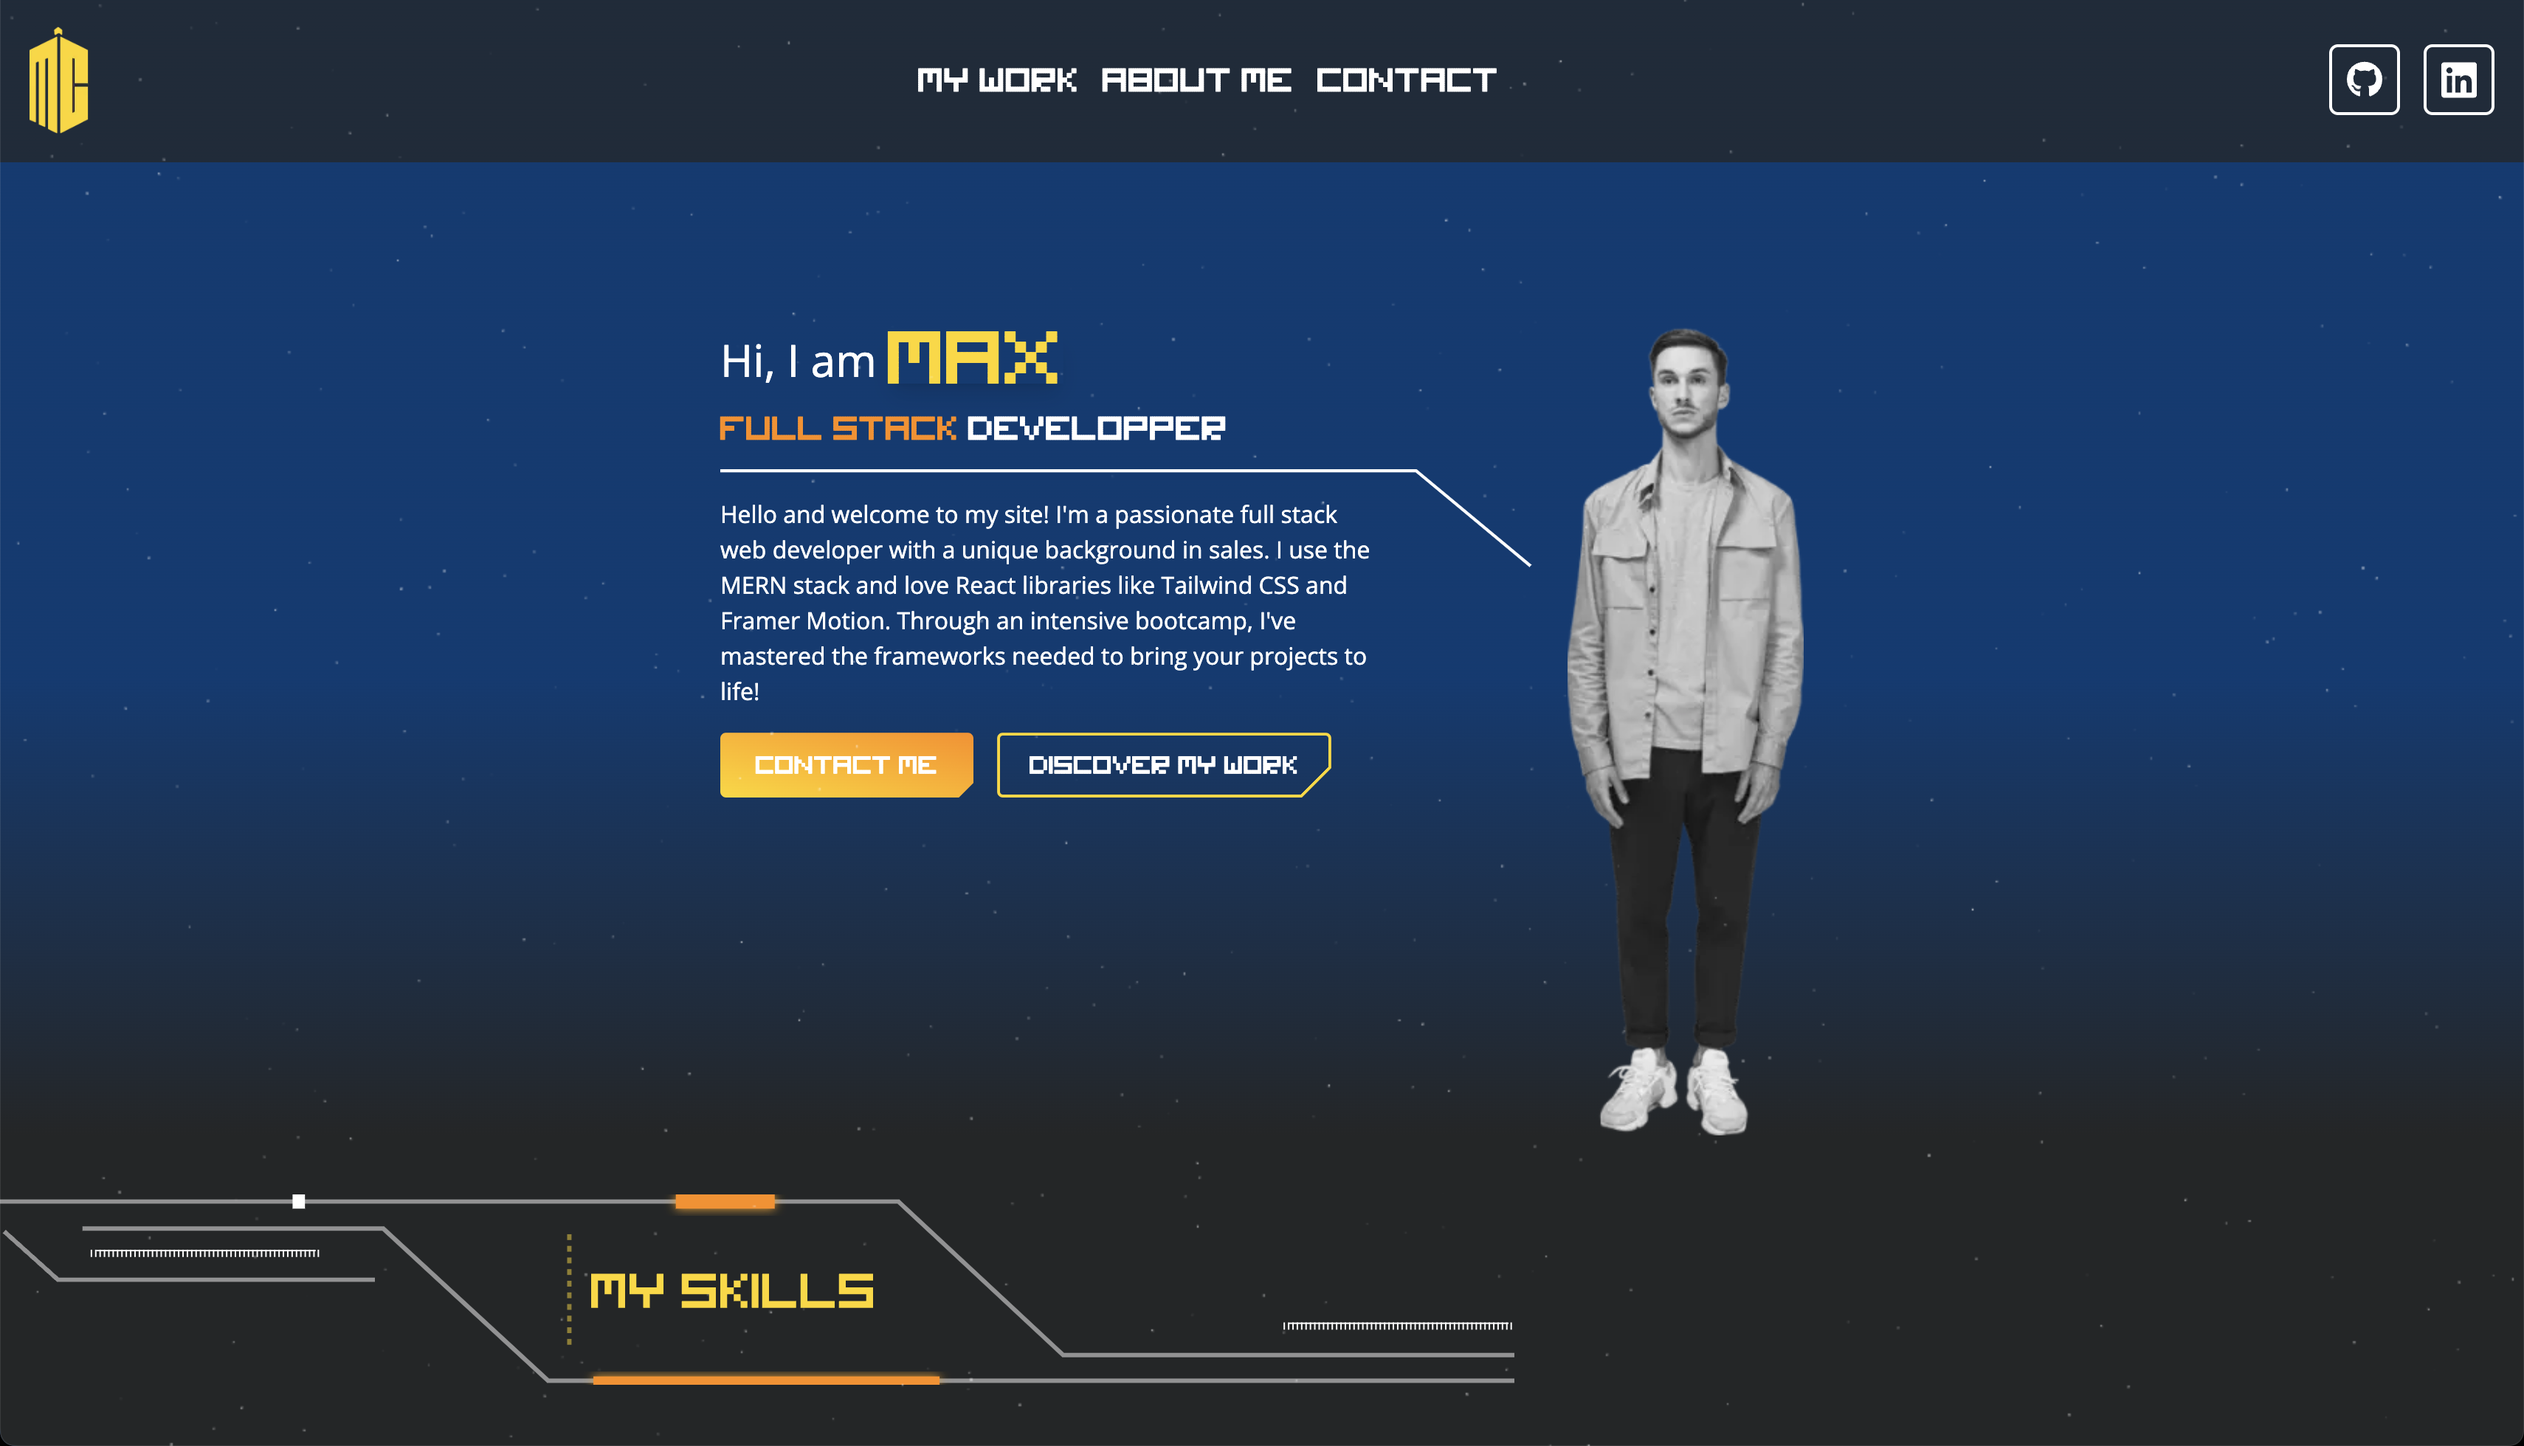
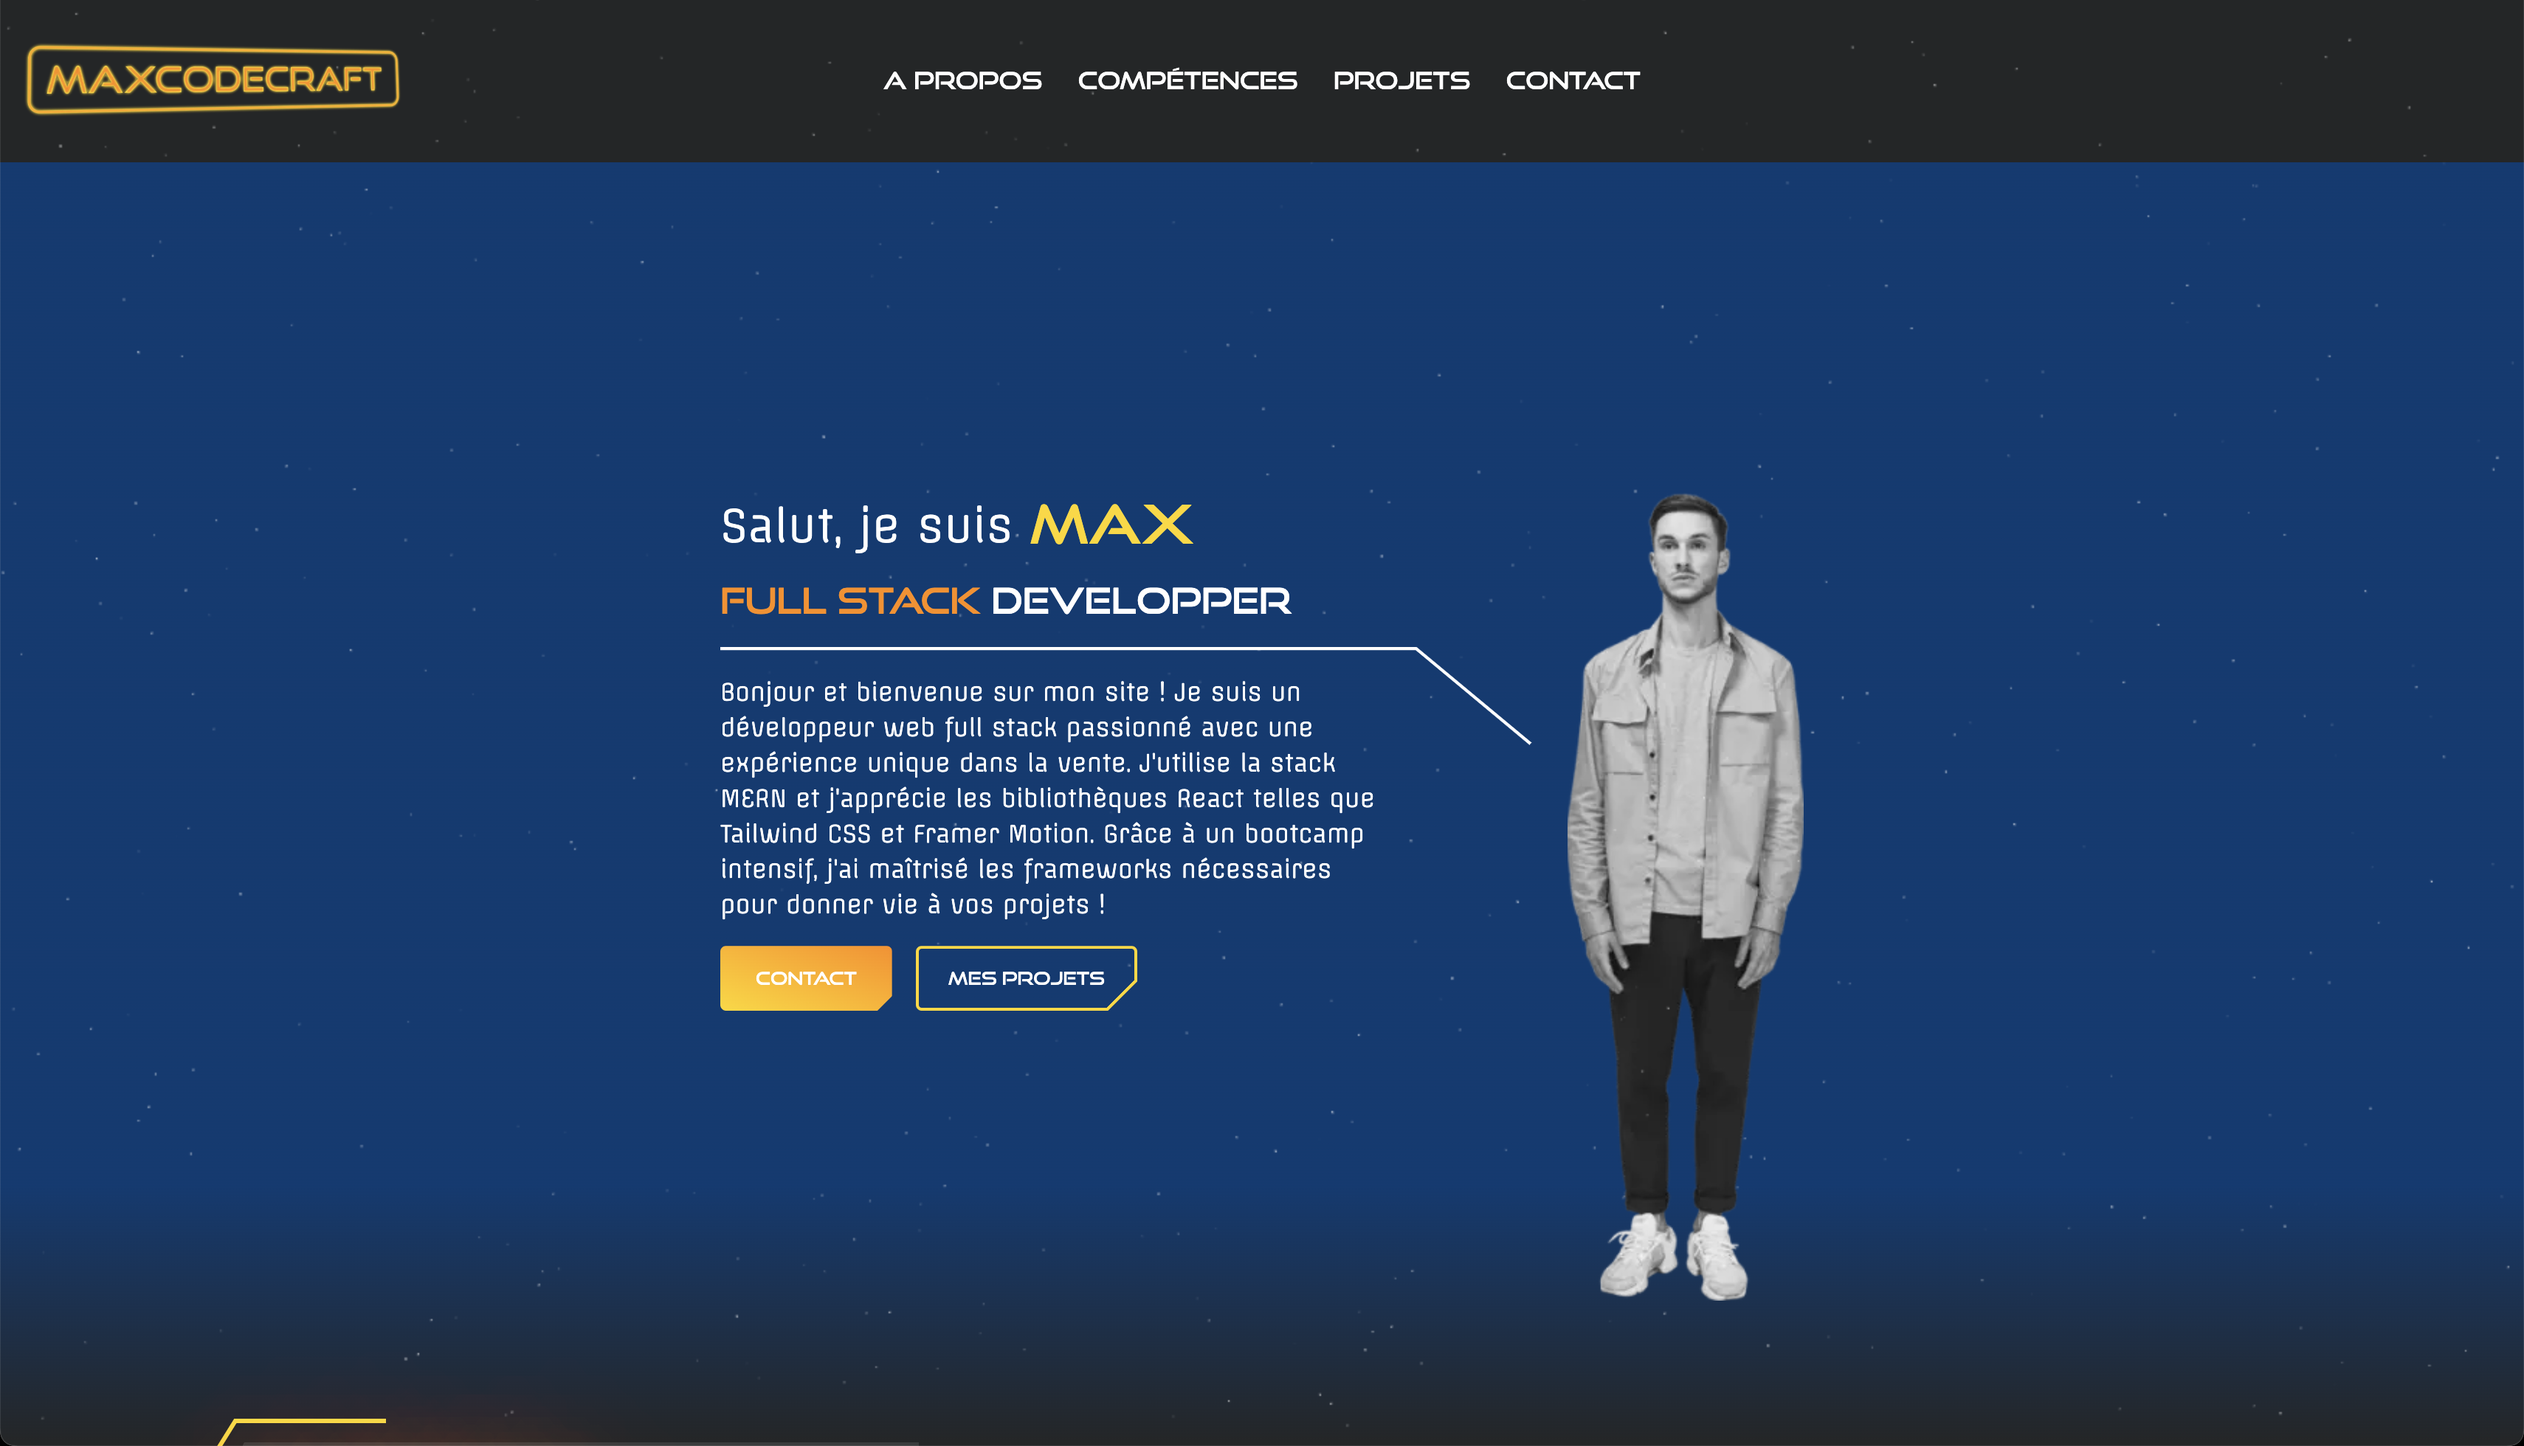
feat: add project and various UI modifications

diff --git a/components/sections/Contact.js b/components/sections/Contact.js
@@ -1,5 +1,6 @@
 "use client";
 import { useState } from "react";
+import { motion } from "framer-motion";
 import { FontAwesomeIcon } from "@fortawesome/react-fontawesome";
 import { faLinkedin, faGithub } from "@fortawesome/free-brands-svg-icons";
 import { faPaperPlane } from "@fortawesome/free-solid-svg-icons";
@@ -76,7 +77,7 @@ export default function Contact() {
         </div>
         <div className="text-white hover:text-gallifreyanGold">
           <a
-            href="https://www.linkedin.com/in/maxime-bocquet-8870a0261/"
+            href="https://www.linkedin.com/in/maxime-bocquet-dev/"
             target="blank"
             aria-label="link to my linkedin profile page"
             className="flex items-center gap-4"
@@ -102,7 +103,6 @@ export default function Contact() {
                 value={name}
                 placeholder="NOM"
                 onChange={(e) => setName(e.target.value)}
-                // onClick={() => setIsSelected("name")}
                 onFocus={() => setIsSelected("name")}
               />
             </div>
@@ -149,13 +149,19 @@ export default function Contact() {
             />
           </div>
           <div className="flex w-full justify-end">
-            <button
-              className="flex items-center justify-center gap-2 rounded bg-gradient-to-tr from-gallifreyanGold to-tardisOrange px-6 py-[14px] font-goodtimes text-xs text-white"
+            <motion.button
+              initial={{
+                background: "linear-gradient(to right, #ffd700, #ff8c00)",
+              }}
+              whileHover={{
+                background: "linear-gradient(to left, #ffd700, #ff8c00)",
+              }}
+              className="flex items-center justify-center gap-2 rounded px-6 py-[14px] font-goodtimes text-xs text-white"
               type="submit"
               onClick={() => setIsSelected("")}
             >
               ENVOYER <FontAwesomeIcon icon={faPaperPlane} size="xl" />
-            </button>
+            </motion.button>
           </div>
         </form>
 

diff --git a/components/cards/ProjectCard.js b/components/cards/ProjectCard.js
@@ -1,6 +1,7 @@
 "use client";
 import Image from "next/image";
 import SkillCard from "./SkillCard";
+import { motion } from "framer-motion";
 import technos from "@/data/technos";
 import { FontAwesomeIcon } from "@fortawesome/react-fontawesome";
 import { faPaperPlane } from "@fortawesome/free-solid-svg-icons";
@@ -66,9 +67,19 @@ export default function ProjectCard(props) {
           <div className="flex h-12 w-full gap-12">{technosToDisplay}</div>
           <div className="flex justify-end">
             <a href={props.url} target="_blank">
-              <button className="flex items-center justify-center gap-2 rounded bg-gradient-to-tr from-gallifreyanGold to-tardisOrange px-6 py-[14px] font-goodtimes text-xs text-white">
-                Je découvre <FontAwesomeIcon icon={faPaperPlane} size="xl" />
-              </button>
+              <motion.button
+                initial={{
+                  background: "linear-gradient(to right, #ffd700, #ff8c00)",
+                }}
+                whileHover={{
+                  background: "linear-gradient(to left, #ffd700, #ff8c00)",
+                }}
+                className="items-center justify-center rounded"
+              >
+                <p className="px-6 py-[14px] font-goodtimes text-xs text-white">
+                  Je découvre <FontAwesomeIcon icon={faPaperPlane} size="xl" />
+                </p>
+              </motion.button>
             </a>
           </div>
         </div>

diff --git a/data/projects.js b/data/projects.js
@@ -4,7 +4,7 @@ const projects = [
     image: "/projects/notaview.png",
     alt: "Notaview Website",
     url: "https://notaview-frontend.vercel.app/",
-    desc: "Site accompagnant les médecins en regroupant plus de 550 articles médicaux",
+    desc: "Application Web commerciale bientôt lancée permettant aux médecins de retrouver toute l’information médicale de manière condensée.",
     technos: [
       "React",
       "TypeScript",
@@ -15,6 +15,14 @@ const projects = [
       "DaisyUi",
       "Shadcn",
     ],
+  },
+  {
+    title: "Quizbrain",
+    image: "/projects/quizbrain.png",
+    alt: "Coding quiz application",
+    url: "https://quizbrain-mcc.vercel.app/",
+    desc: "Application Web responsive permettant de tester ses connaissances en développement sous forme de quiz utilisant l’API QuizAPI.io",
+    technos: ["React", "MongoDB", "Mongoose", "Tailwind CSS", "Framer-Motion"],
   },
   {
     title: "Portfolio",

diff --git a/app/layout.js b/app/layout.js
@@ -8,7 +8,7 @@ const offside = Offside({ subsets: ["latin"], weight: "400" });
 export const metadata = {
   title: "MaxCodeCraft | Maxime Bocquet",
   description:
-    "Je suis un développeur web full stack passionné avec une expérience unique dans la vente. J'utilise la stack MERN et j'apprécie les bibliothèques React telles que Tailwind CSS et Framer Motion. Grâce à un bootcamp intensif, j'ai maîtrisé les frameworks nécessaires pour donner vie à vos projets !",
+    "Développeur full stack spécialisé dans la méthode MERN (MongoDB, Express.js, React, Node.js) basé à Nice, France. Expertise en développement web, applications web modernes et solutions logicielles. Disponible pour des projets freelance et collaborations.",
 };
 
 export default function RootLayout({ children }) {

diff --git a/components/buttons/YellowButton.js b/components/buttons/YellowButton.js
@@ -1,13 +1,21 @@
+"use client";
+import { motion } from "framer-motion";
 import Link from "next/link";
 
 export default function YellowButton(props) {
   return (
     <Link href={props.url}>
-      <div className="clipped-corner items-center justify-center rounded bg-gradient-to-tr from-gallifreyanGold to-tardisOrange">
+      <motion.div
+        initial={{ background: "linear-gradient(to right, #ffd700, #ff8c00)" }}
+        whileHover={{
+          background: "linear-gradient(to left, #ffd700, #ff8c00)",
+        }}
+        className="items-center justify-center rounded"
+      >
         <p className="px-6 py-[14px] font-goodtimes text-xs text-white">
           {props.title}
         </p>
-      </div>
+      </motion.div>
     </Link>
   );
 }

diff --git a/components/buttons/TransparentButton.js b/components/buttons/TransparentButton.js
@@ -3,7 +3,7 @@ import Link from "next/link";
 export default function TransparentButton(props) {
   return (
     <Link href={props.url}>
-      <div className="button-cutted flex items-center justify-center rounded border-2">
+      <div className="flex items-center justify-center rounded border-2 border-gallifreyanGold">
         <p className="px-5 py-3 font-goodtimes text-xs text-white">
           {props.title}
         </p>

diff --git a/components/footer/Footer.js b/components/footer/Footer.js
@@ -2,7 +2,7 @@ export default function Footer() {
   return (
     <footer className="flex w-screen items-center justify-center bg-spatialGrey/75 py-1">
       <p>
-        Maxime Bocquet © 2024. Développeur web et mobile. Passionné par la
+        MaxCodecraft © 2024. Développeur web et mobile. Passionné par la
         technologie et l&apos;innovation. UI/UX by Charlotte Bocquet
       </p>
     </footer>
